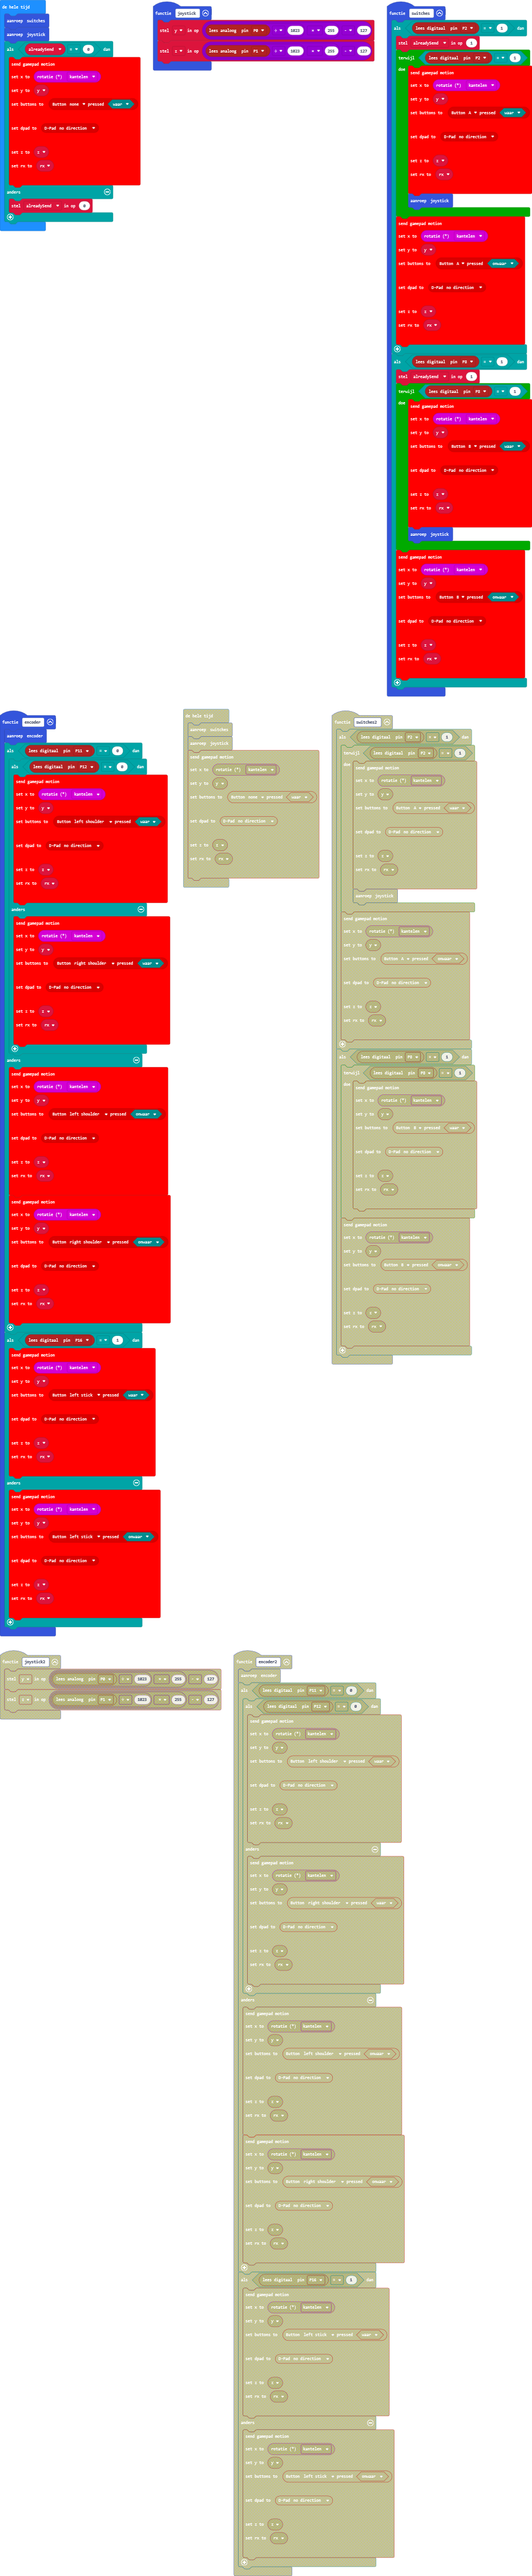
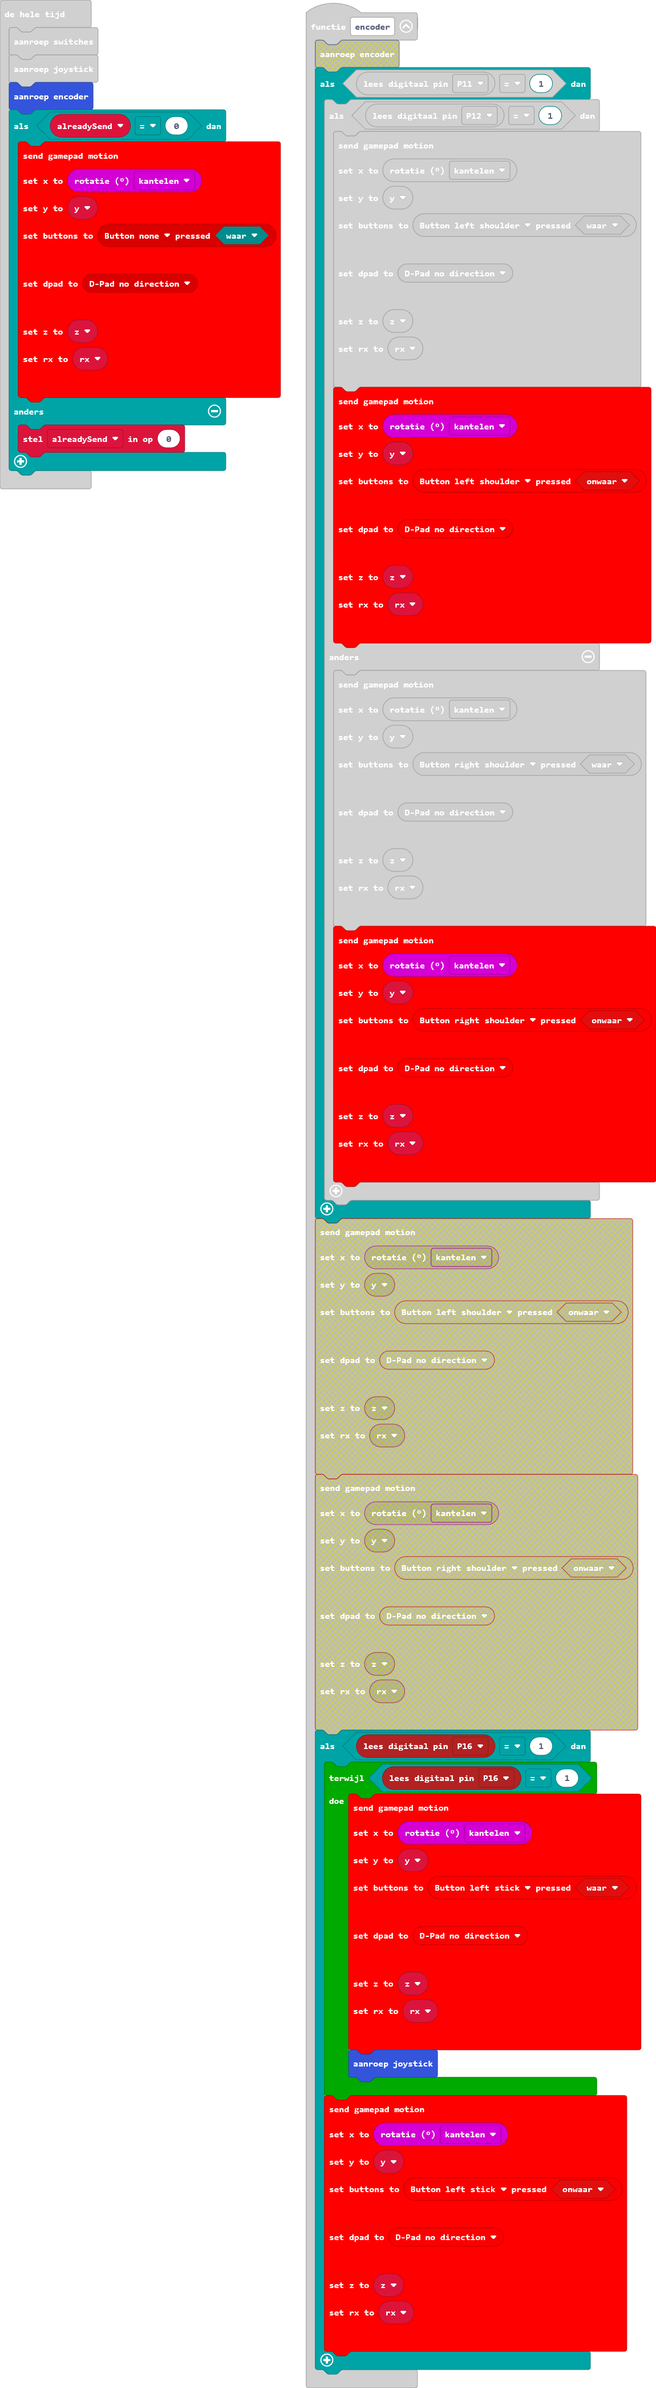
main.blocks, main.ts bijwerken

diff --git a/main.ts b/main.ts
@@ -49,11 +49,18 @@ function switches () {
     }
 }
 function encoder () {
-    encoder()
-    if (pins.digitalReadPin(DigitalPin.P11) == 0) {
-        if (pins.digitalReadPin(DigitalPin.P12) == 0) {
+    if (pins.digitalReadPin(DigitalPin.P11) == 1) {
+        if (pins.digitalReadPin(DigitalPin.P12) == 1) {
             gamepad.send(
             gamepad._buttons(GameButton.leftShoulder, true),
+            input.rotation(Rotation.Pitch),
+            y,
+            gamepad._dpad(GameDirection.noDirection),
+            z,
+            rx
+            )
+            gamepad.send(
+            gamepad._buttons(GameButton.leftShoulder, false),
             input.rotation(Rotation.Pitch),
             y,
             gamepad._dpad(GameDirection.noDirection),
@@ -69,35 +76,28 @@ function encoder () {
             z,
             rx
             )
+            gamepad.send(
+            gamepad._buttons(GameButton.rightShoulder, false),
+            input.rotation(Rotation.Pitch),
+            y,
+            gamepad._dpad(GameDirection.noDirection),
+            z,
+            rx
+            )
         }
-    } else {
-        gamepad.send(
-        gamepad._buttons(GameButton.leftShoulder, false),
-        input.rotation(Rotation.Pitch),
-        y,
-        gamepad._dpad(GameDirection.noDirection),
-        z,
-        rx
-        )
-        gamepad.send(
-        gamepad._buttons(GameButton.rightShoulder, false),
-        input.rotation(Rotation.Pitch),
-        y,
-        gamepad._dpad(GameDirection.noDirection),
-        z,
-        rx
-        )
     }
     if (pins.digitalReadPin(DigitalPin.P16) == 1) {
-        gamepad.send(
-        gamepad._buttons(GameButton.leftStick, true),
-        input.rotation(Rotation.Pitch),
-        y,
-        gamepad._dpad(GameDirection.noDirection),
-        z,
-        rx
-        )
-    } else {
+        while (pins.digitalReadPin(DigitalPin.P16) == 1) {
+            gamepad.send(
+            gamepad._buttons(GameButton.leftStick, true),
+            input.rotation(Rotation.Pitch),
+            y,
+            gamepad._dpad(GameDirection.noDirection),
+            z,
+            rx
+            )
+            joystick()
+        }
         gamepad.send(
         gamepad._buttons(GameButton.leftStick, false),
         input.rotation(Rotation.Pitch),
@@ -116,6 +116,7 @@ gamepad.startGamepadService()
 basic.forever(function () {
     switches()
     joystick()
+    encoder()
     if (alreadySend == 0) {
         gamepad.send(
         gamepad._buttons(GameButton.none, true),
